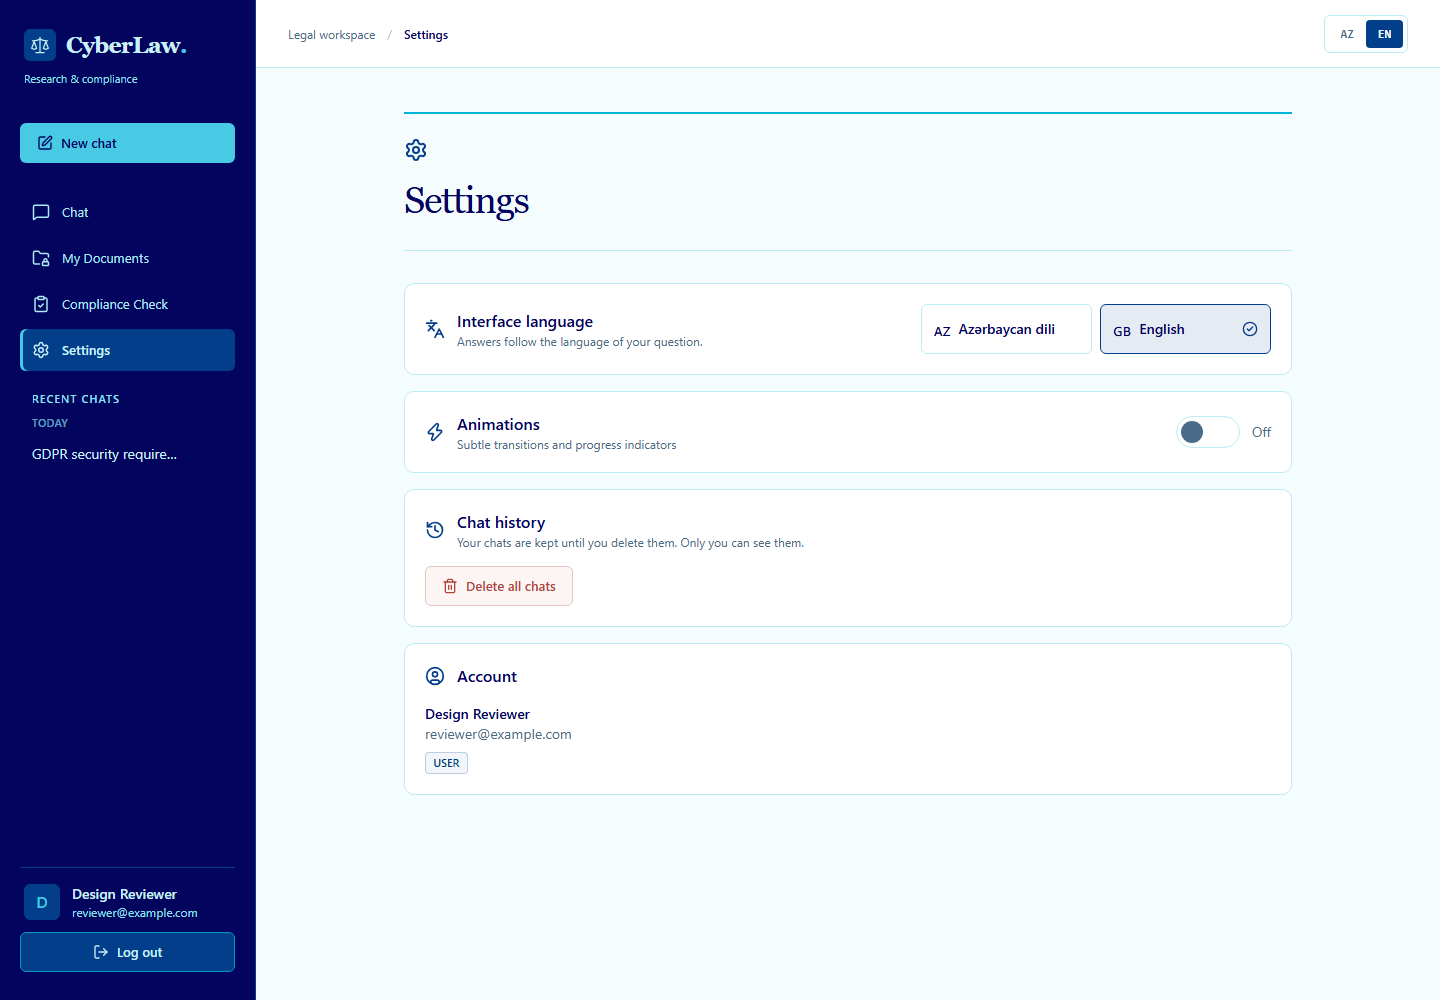
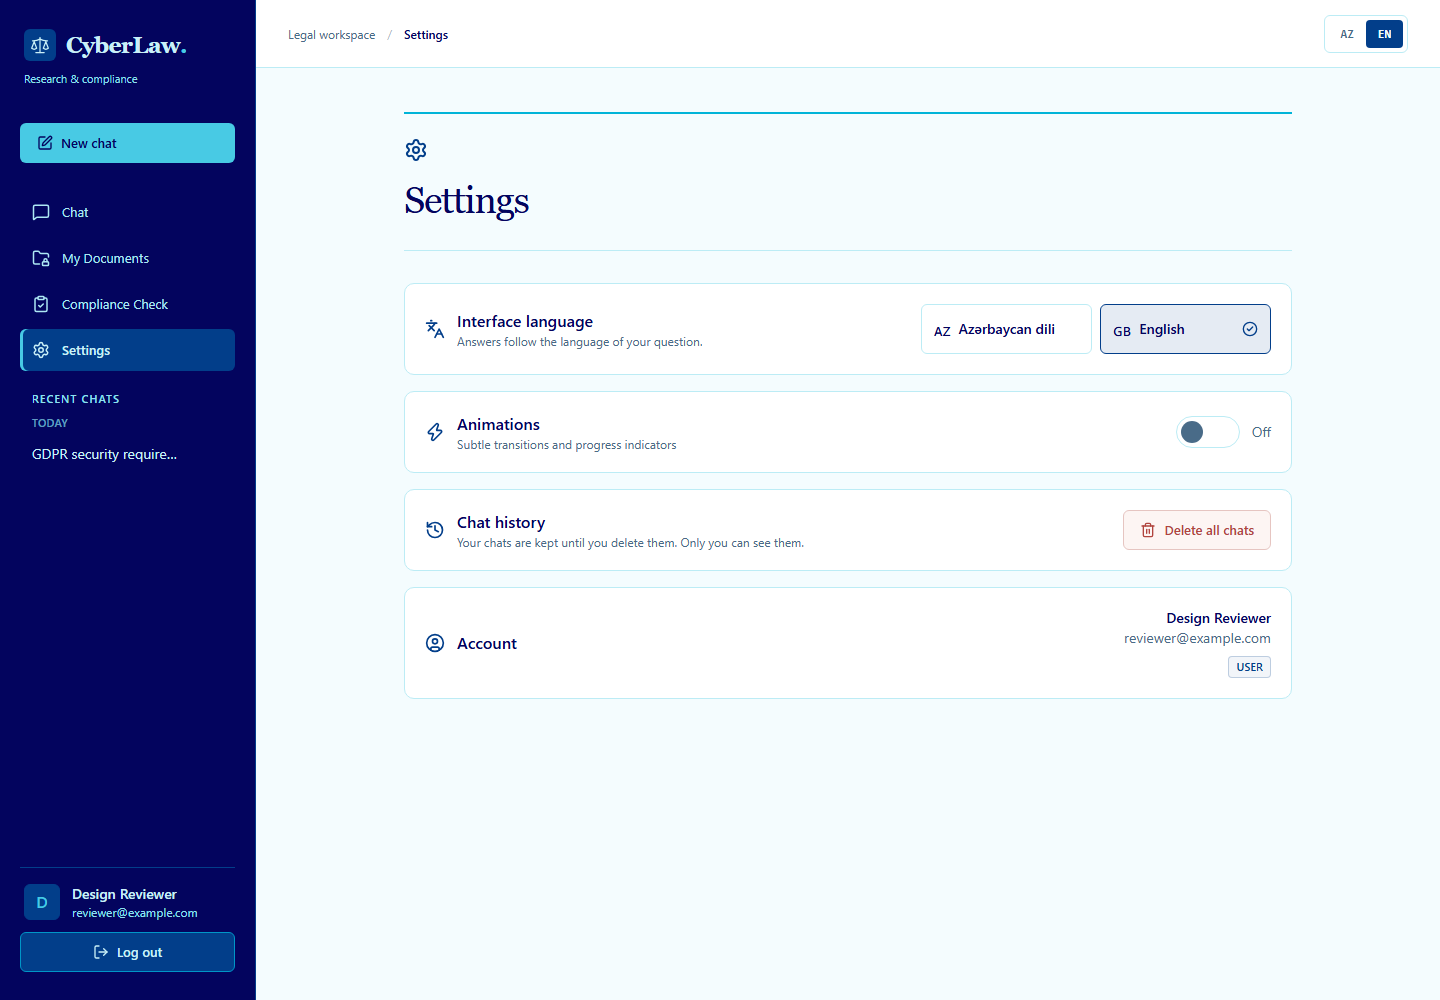
Align chat history and account settings content

diff --git a/frontend/src/pages/SettingsPage.tsx b/frontend/src/pages/SettingsPage.tsx
@@ -88,10 +88,10 @@ export function SettingsPage() {
 
         <ChatHistorySection />
 
-        <Section icon={<CircleUser className="h-5 w-5" />} title={t('settings.account')}>
-          <div className="text-sm">
+        <Section inline icon={<CircleUser className="h-5 w-5" />} title={t('settings.account')}>
+          <div className="max-w-full text-sm lg:max-w-xs lg:text-right">
             <div className="font-semibold">{user?.displayName}</div>
-            <div className="text-muted">{user?.email}</div>
+            <div className="break-all text-muted">{user?.email}</div>
             <span className="chip mt-2 text-violet">{user?.role}</span>
           </div>
         </Section>
@@ -129,16 +129,18 @@ function ChatHistorySection() {
       : t('settings.historyKept')
 
   return (
-    <Section icon={<History className="h-5 w-5" />} title={t('settings.history')} hint={hint}>
-      <button
-        className="btn btn-danger"
-        onClick={clear}
-        disabled={state === 'busy' || conversations?.length === 0}
-      >
-        <Trash className="h-4 w-4" /> {t('settings.clearHistory')}
-      </button>
-      {state === 'done' && <span className="ml-3 text-sm text-acid">{t('settings.cleared')}</span>}
-      <ErrorNote error={error} className="mt-3 w-full" />
+    <Section inline icon={<History className="h-5 w-5" />} title={t('settings.history')} hint={hint}>
+      <div className="flex max-w-xs flex-col items-start gap-2 lg:items-end">
+        <button
+          className="btn btn-danger"
+          onClick={clear}
+          disabled={state === 'busy' || conversations?.length === 0}
+        >
+          <Trash className="h-4 w-4" /> {t('settings.clearHistory')}
+        </button>
+        {state === 'done' && <span className="text-sm text-acid">{t('settings.cleared')}</span>}
+        <ErrorNote error={error} className="w-full" />
+      </div>
     </Section>
   )
 }

diff --git a/design-preview/README.md b/design-preview/README.md
@@ -37,11 +37,11 @@ Focused browser checks: [composer-verification.json](composer-verification.json)
 
 ## Settings refinements
 
-Language choices and the animation toggle align to the right of their descriptions on larger screens. On phones the controls stack below the descriptions, with the two language buttons arranged vertically.
+Language choices, the animation toggle, Delete all chats and account details align to the right of their descriptions on larger screens. Account details are right-aligned on desktop. On phones the controls and details stack below their descriptions and align left, with the two language buttons arranged vertically.
 
 The AI model connection panel and its connection-status request are limited to admin accounts. Log out is a bordered button with its icon and label centered in both the desktop sidebar and mobile drawer.
 
-Role, layout and interaction checks: [settings-verification.json](settings-verification.json).
+Role, layout and interaction checks: [settings-verification.json](settings-verification.json). History/account placement and the delete confirmation flow: [settings-alignment-verification.json](settings-alignment-verification.json).
 
 ## Validation
 
